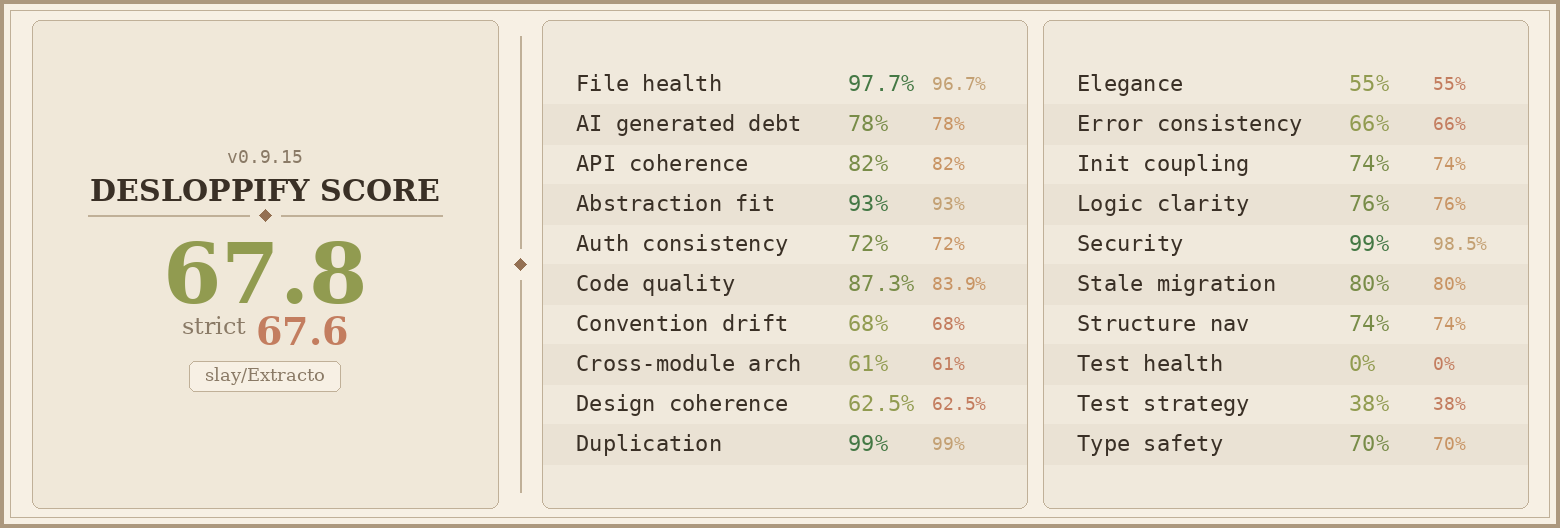
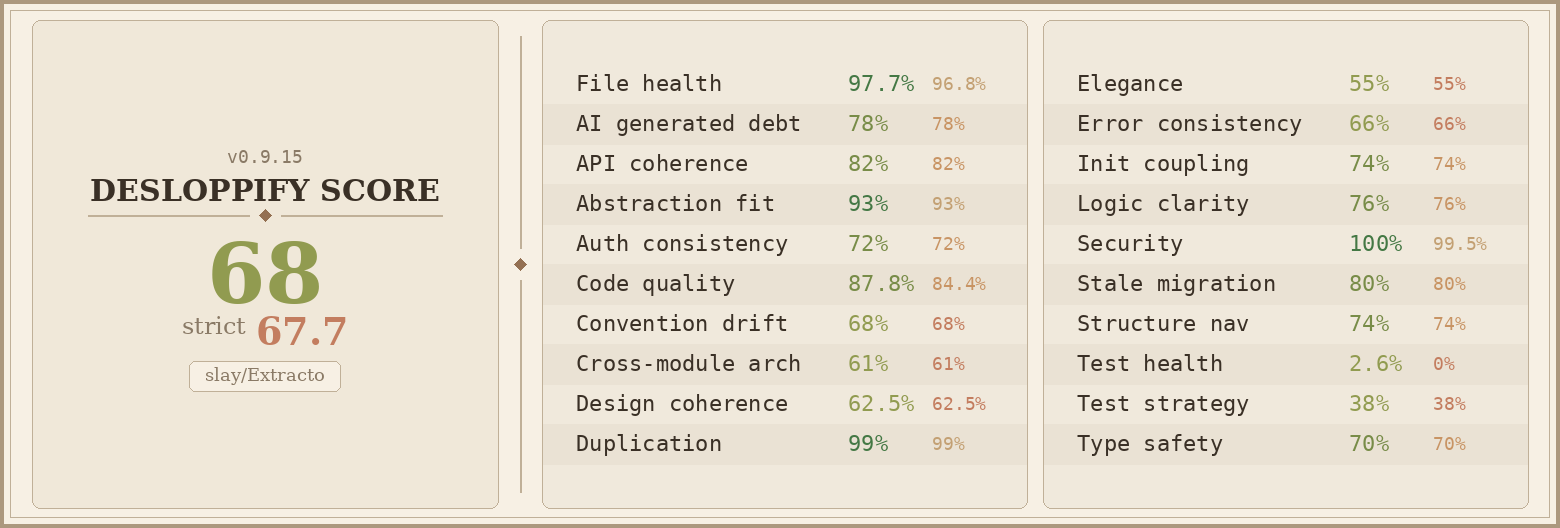
Add 42 tests across 3 new test modules (335 total, 16 files)
- lib/ocr/job-control.test.ts: running-job tracking, abort controller
  lifecycle, withOcrJobSlot concurrency, stop-request cache (17 tests)
- lib/request-security.test.ts: isTrustedMutationRequest covers origin/
  referer/sec-fetch-site paths; getClientIpAddress header priority (16 tests)
- lib/auth/credentials.test.ts: normalizeEmail, verifyPassword round-trip
  and rejection cases (9 tests)

diff --git a/src/__tests__/lib/ocr/job-control.test.ts b/src/__tests__/lib/ocr/job-control.test.ts
@@ -1,0 +1,173 @@
+import { describe, it, expect, vi, beforeEach } from "vitest";
+
+vi.mock("@/lib/db", () => ({
+  db: {
+    ocrJob: {
+      update: vi.fn().mockResolvedValue({}),
+      findUnique: vi.fn().mockResolvedValue(null),
+    },
+  },
+}));
+
+import { db } from "@/lib/db";
+import {
+  markOcrJobRunning,
+  clearOcrJobRunning,
+  isOcrJobRunning,
+  registerOcrJobAbortController,
+  unregisterOcrJobAbortController,
+  abortOcrJobRequests,
+  getOcrQueueDepth,
+  withOcrJobSlot,
+  requestOcrJobStop,
+  isOcrJobStopRequested,
+} from "@/lib/ocr/job-control";
+
+const mockDb = db as { ocrJob: { update: ReturnType<typeof vi.fn>; findUnique: ReturnType<typeof vi.fn> } };
+
+beforeEach(() => {
+  vi.clearAllMocks();
+  mockDb.ocrJob.update.mockResolvedValue({});
+  mockDb.ocrJob.findUnique.mockResolvedValue(null);
+});
+
+describe("running job tracking", () => {
+  it("marks a job as running and detects it", () => {
+    const id = "job-running-1";
+    markOcrJobRunning(id);
+    expect(isOcrJobRunning(id)).toBe(true);
+    clearOcrJobRunning(id);
+  });
+
+  it("returns false for an unknown job", () => {
+    expect(isOcrJobRunning("nonexistent-job-xyz")).toBe(false);
+  });
+
+  it("clearOcrJobRunning removes the job", () => {
+    const id = "job-clear-1";
+    markOcrJobRunning(id);
+    clearOcrJobRunning(id);
+    expect(isOcrJobRunning(id)).toBe(false);
+  });
+
+  it("handles multiple distinct jobs independently", () => {
+    markOcrJobRunning("job-a");
+    markOcrJobRunning("job-b");
+    expect(isOcrJobRunning("job-a")).toBe(true);
+    expect(isOcrJobRunning("job-b")).toBe(true);
+    clearOcrJobRunning("job-a");
+    expect(isOcrJobRunning("job-a")).toBe(false);
+    expect(isOcrJobRunning("job-b")).toBe(true);
+    clearOcrJobRunning("job-b");
+  });
+});
+
+describe("abort controller management", () => {
+  it("registers a controller and aborts it", () => {
+    const id = "job-abort-1";
+    const ctrl = new AbortController();
+    registerOcrJobAbortController(id, ctrl);
+    abortOcrJobRequests(id);
+    expect(ctrl.signal.aborted).toBe(true);
+  });
+
+  it("aborts multiple controllers for the same job", () => {
+    const id = "job-abort-multi";
+    const ctrl1 = new AbortController();
+    const ctrl2 = new AbortController();
+    registerOcrJobAbortController(id, ctrl1);
+    registerOcrJobAbortController(id, ctrl2);
+    abortOcrJobRequests(id);
+    expect(ctrl1.signal.aborted).toBe(true);
+    expect(ctrl2.signal.aborted).toBe(true);
+  });
+
+  it("no-ops abortOcrJobRequests when no controllers registered", () => {
+    expect(() => abortOcrJobRequests("no-controllers")).not.toThrow();
+  });
+
+  it("unregisterOcrJobAbortController removes a specific controller", () => {
+    const id = "job-unreg";
+    const ctrl1 = new AbortController();
+    const ctrl2 = new AbortController();
+    registerOcrJobAbortController(id, ctrl1);
+    registerOcrJobAbortController(id, ctrl2);
+    unregisterOcrJobAbortController(id, ctrl1);
+    abortOcrJobRequests(id);
+    expect(ctrl1.signal.aborted).toBe(false);
+    expect(ctrl2.signal.aborted).toBe(true);
+  });
+
+  it("no-ops unregister for unknown jobId", () => {
+    const ctrl = new AbortController();
+    expect(() => unregisterOcrJobAbortController("no-job", ctrl)).not.toThrow();
+  });
+
+  it("clears abort controllers when clearOcrJobRunning is called", () => {
+    const id = "job-clear-ctrl";
+    const ctrl = new AbortController();
+    markOcrJobRunning(id);
+    registerOcrJobAbortController(id, ctrl);
+    clearOcrJobRunning(id);
+    abortOcrJobRequests(id);
+    expect(ctrl.signal.aborted).toBe(false);
+  });
+});
+
+describe("withOcrJobSlot", () => {
+  it("executes a task and returns its result", async () => {
+    const result = await withOcrJobSlot(0, async () => 42);
+    expect(result).toBe(42);
+  });
+
+  it("propagates task errors", async () => {
+    await expect(
+      withOcrJobSlot(0, async () => { throw new Error("task failed"); })
+    ).rejects.toThrow("task failed");
+  });
+
+  it("reports active job count while running", async () => {
+    let depthDuringTask = { active: -1, waiting: -1 };
+    await withOcrJobSlot(5, async () => {
+      depthDuringTask = getOcrQueueDepth();
+    });
+    expect(depthDuringTask.active).toBeGreaterThanOrEqual(1);
+  });
+
+  it("restores depth to previous level after completion", async () => {
+    const before = getOcrQueueDepth();
+    await withOcrJobSlot(0, async () => "done");
+    const after = getOcrQueueDepth();
+    expect(after.active).toBe(before.active);
+  });
+});
+
+describe("stop request cache", () => {
+  it("requestOcrJobStop updates DB and caches the result", async () => {
+    const id = "job-stop-1";
+    await requestOcrJobStop(id);
+    expect(mockDb.ocrJob.update).toHaveBeenCalledWith(
+      expect.objectContaining({ where: { id } })
+    );
+    // Cache hit — DB should not be called again immediately
+    const stopped = await isOcrJobStopRequested(id);
+    expect(stopped).toBe(true);
+    expect(mockDb.ocrJob.findUnique).not.toHaveBeenCalled();
+    clearOcrJobRunning(id);
+  });
+
+  it("isOcrJobStopRequested returns false when DB row has no stopRequestedAt", async () => {
+    const id = "job-not-stopped";
+    mockDb.ocrJob.findUnique.mockResolvedValue({ stopRequestedAt: null });
+    const result = await isOcrJobStopRequested(id);
+    expect(result).toBe(false);
+  });
+
+  it("isOcrJobStopRequested returns true when DB row has stopRequestedAt set", async () => {
+    const id = "job-db-stopped";
+    mockDb.ocrJob.findUnique.mockResolvedValue({ stopRequestedAt: new Date() });
+    const result = await isOcrJobStopRequested(id);
+    expect(result).toBe(true);
+    clearOcrJobRunning(id);
+  });
+});

diff --git a/src/__tests__/lib/request-security.test.ts b/src/__tests__/lib/request-security.test.ts
@@ -1,0 +1,105 @@
+import { describe, it, expect } from "vitest";
+import { NextRequest } from "next/server";
+import { isTrustedMutationRequest, getClientIpAddress } from "@/lib/request-security";
+
+function makeRequest(url: string, headers: Record<string, string> = {}): NextRequest {
+  return new NextRequest(url, { headers });
+}
+
+describe("isTrustedMutationRequest", () => {
+  const base = "http://localhost:3000/api/test";
+
+  it("trusts a same-origin request with matching Origin header", () => {
+    const req = makeRequest(base, { origin: "http://localhost:3000" });
+    expect(isTrustedMutationRequest(req)).toBe(true);
+  });
+
+  it("rejects a cross-origin request", () => {
+    const req = makeRequest(base, { origin: "http://evil.com" });
+    expect(isTrustedMutationRequest(req)).toBe(false);
+  });
+
+  it("trusts when sec-fetch-site is same-origin and no Origin header", () => {
+    const req = makeRequest(base, { "sec-fetch-site": "same-origin" });
+    expect(isTrustedMutationRequest(req)).toBe(true);
+  });
+
+  it("trusts when sec-fetch-site is same-site", () => {
+    const req = makeRequest(base, { "sec-fetch-site": "same-site" });
+    expect(isTrustedMutationRequest(req)).toBe(true);
+  });
+
+  it("rejects when sec-fetch-site is cross-site", () => {
+    const req = makeRequest(base, { "sec-fetch-site": "cross-site" });
+    expect(isTrustedMutationRequest(req)).toBe(false);
+  });
+
+  it("rejects when no Origin, Referer, or sec-fetch-site", () => {
+    const req = makeRequest(base);
+    expect(isTrustedMutationRequest(req)).toBe(false);
+  });
+
+  it("trusts same-origin request via matching Referer", () => {
+    const req = makeRequest(base, { referer: "http://localhost:3000/some-page" });
+    expect(isTrustedMutationRequest(req)).toBe(true);
+  });
+
+  it("rejects cross-origin Referer", () => {
+    const req = makeRequest(base, { referer: "http://attacker.com/page" });
+    expect(isTrustedMutationRequest(req)).toBe(false);
+  });
+
+  it("normalizes 127.0.0.1 to localhost for origin comparison", () => {
+    const req = makeRequest("http://127.0.0.1:3000/api/test", {
+      origin: "http://localhost:3000",
+    });
+    expect(isTrustedMutationRequest(req)).toBe(true);
+  });
+
+  it("trusts x-forwarded-host matching the Origin header", () => {
+    const req = makeRequest(base, {
+      origin: "http://app.example.com",
+      "x-forwarded-host": "app.example.com",
+      "x-forwarded-proto": "http",
+    });
+    expect(isTrustedMutationRequest(req)).toBe(true);
+  });
+
+  it("rejects invalid Origin value", () => {
+    const req = makeRequest(base, { origin: "not-a-url" });
+    expect(isTrustedMutationRequest(req)).toBe(false);
+  });
+
+  it("trusts sec-fetch-site=none (no-cors or navigation)", () => {
+    const req = makeRequest(base, { "sec-fetch-site": "none" });
+    expect(isTrustedMutationRequest(req)).toBe(true);
+  });
+});
+
+describe("getClientIpAddress", () => {
+  it("returns the first IP from x-forwarded-for", () => {
+    const req = makeRequest("http://localhost:3000/", {
+      "x-forwarded-for": "1.2.3.4, 5.6.7.8",
+    });
+    expect(getClientIpAddress(req)).toBe("1.2.3.4");
+  });
+
+  it("returns x-real-ip when x-forwarded-for is absent", () => {
+    const req = makeRequest("http://localhost:3000/", {
+      "x-real-ip": "9.9.9.9",
+    });
+    expect(getClientIpAddress(req)).toBe("9.9.9.9");
+  });
+
+  it("returns 'unknown' when no IP headers present", () => {
+    const req = makeRequest("http://localhost:3000/");
+    expect(getClientIpAddress(req)).toBe("unknown");
+  });
+
+  it("trims whitespace from x-real-ip", () => {
+    const req = makeRequest("http://localhost:3000/", {
+      "x-real-ip": "  10.0.0.1  ",
+    });
+    expect(getClientIpAddress(req)).toBe("10.0.0.1");
+  });
+});

diff --git a/src/__tests__/lib/auth/credentials.test.ts b/src/__tests__/lib/auth/credentials.test.ts
@@ -1,0 +1,67 @@
+import { describe, it, expect, vi } from "vitest";
+
+vi.mock("@/lib/db", () => ({
+  db: {
+    user: {
+      findUnique: vi.fn().mockResolvedValue(null),
+      create: vi.fn(),
+    },
+  },
+}));
+
+import { normalizeEmail, verifyPassword } from "@/lib/auth/credentials";
+
+describe("normalizeEmail", () => {
+  it("lowercases the email", () => {
+    expect(normalizeEmail("User@Example.COM")).toBe("user@example.com");
+  });
+
+  it("trims whitespace", () => {
+    expect(normalizeEmail("  user@example.com  ")).toBe("user@example.com");
+  });
+
+  it("handles already-normalized email", () => {
+    expect(normalizeEmail("user@example.com")).toBe("user@example.com");
+  });
+
+  it("handles empty string", () => {
+    expect(normalizeEmail("")).toBe("");
+  });
+});
+
+describe("verifyPassword", () => {
+  it("verifies a correct password against its hash", () => {
+    // We need to create a real hash first. Since hashPassword is private,
+    // we test through the full round-trip via the scrypt format.
+    // Create a hash manually using the same format: salt:hash
+    const { scryptSync, randomBytes } = require("node:crypto");
+    const salt = randomBytes(16).toString("hex");
+    const key = scryptSync("secret", salt, 64).toString("hex");
+    const hash = `${salt}:${key}`;
+    expect(verifyPassword("secret", hash)).toBe(true);
+  });
+
+  it("rejects an incorrect password", () => {
+    const { scryptSync, randomBytes } = require("node:crypto");
+    const salt = randomBytes(16).toString("hex");
+    const key = scryptSync("secret", salt, 64).toString("hex");
+    const hash = `${salt}:${key}`;
+    expect(verifyPassword("wrong", hash)).toBe(false);
+  });
+
+  it("returns false for malformed hash (no colon)", () => {
+    expect(verifyPassword("password", "badsaltandhash")).toBe(false);
+  });
+
+  it("returns false for empty hash", () => {
+    expect(verifyPassword("password", "")).toBe(false);
+  });
+
+  it("rejects when hash lengths differ", () => {
+    const { scryptSync, randomBytes } = require("node:crypto");
+    const salt = randomBytes(16).toString("hex");
+    const shortKey = scryptSync("other", salt, 32).toString("hex");
+    const hash = `${salt}:${shortKey}`;
+    expect(verifyPassword("password", hash)).toBe(false);
+  });
+});
